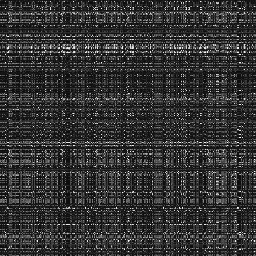
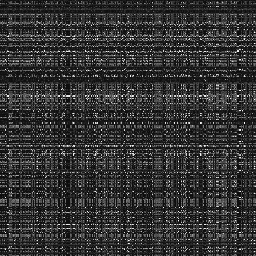
problem in col

Changed region(s): [[0.0, 0.0, 1.0, 0.9688]]

diff --git a/opencv.cpp b/opencv.cpp
@@ -71,13 +71,13 @@ void checkbox_binary_row(long long *csvMat,int boxSize,int box_col,int *binary,l
 	for(int x=0;x<box_col;x++){	
 		for(int i=0;i<box_col;i=i+1){
 			decimal_to_binary(csvMat[i*2+1+x*box_col*2],bits_size,binary);
-			int result=0;
 			for(int k=0;k<boxSize;k++){
+				int result=0;
 				for(int z=0;z<8;z++){//change the binary to the decimal to XOR
    					result=result+binary[z+k*8]*pow(2,7-z);
    				}
-   				result_matrix[k*box_col+i+4*x*box_col]=result;
-   				//printf("checkbox row result%d: %d\n",x*256+8*i+k,result);
+   				result_matrix[k*box_col+i+boxSize*x*box_col]=result;
+   				//printf("checkbox row result%d: %lld\n",x*256+8*i+k,result_matrix[k*box_col+i+4*x*box_col]);
    			}
 		}
 	}	
@@ -87,13 +87,13 @@ void checkbox_binary_column(long long *csvMat,int boxSize,int box_col,int *binar
 	for(int x=0;x<box_col;x++){	
 		for(int i=0;i<box_col;i=i+1){
 			decimal_to_binary(csvMat[x*2+i*box_col*2],bits_size,binary);
-			int result=0;
 			for(int k=0;k<boxSize;k++){
+				int result=0;
 				for(int z=0;z<8;z++){//change the binary to the decimal to XOR
    					result=result+binary[z+k*8]*pow(2,7-z);
    				}
-   				result_matrix[k*box_col+i+4*x*box_col]=result;
-   				//printf("checkbox column result %d: %d\n",x*256+8*i+k,result);
+   				result_matrix[k*box_col+i+boxSize*x*box_col]=result;
+   				//printf("checkbox column result %d: %lld\n",x*256+8*i+k,result_matrix[k*box_col+i+4*x*box_col]);
    			}
 		}
 	}	
@@ -103,10 +103,10 @@ void get_xor(long long *result_xor,long long *result_matrix,int box_col, int M){
 	for(int j=0;j<M;j++){
    		for(int i=0+j*box_col;i<box_col-1+j*box_col;i++){
    	   		result_matrix[i+1]=result_matrix[i]^result_matrix[i+1];//XOR every decial of the row or column
-   	   		printf("result_matrix %d is %lld\n",i,result_matrix[i+1]);
+   	   		//printf("result_matrix %d is %lld\n",i,result_matrix[i+1]);
    		}
    		result_xor[j] = result_matrix[box_col-1+j*box_col];//get the last one, which is the final result of the XOR
-   		printf("xor of the row or column %d is %lld\n",j,result_xor[j]);	
+   		//printf("xor of the row or column %d is %lld\n",j,result_xor[j]);	
    	}	
 }
 
@@ -187,7 +187,7 @@ int main(int argc, char *argv[]){
 	uchar *p = image.data;
 	row_xor = rowXOR(p, M);
 	col_xor = colXOR(p, M);
-	//for(i=0; i< M; i++) printf("row_xor[%d] = %d\n", i, row_xor[i]);
+	for(i=0; i< M; i++) printf("row_xor[%d] = %d\n", i, row_xor[i]);
 	//for(i=0; i< M; i++) printf("col_xor[%d] = %d\n", i, col_xor[i]);
 
     char buffer[1024] ;
@@ -250,10 +250,10 @@ int main(int argc, char *argv[]){
    checkbox_binary_row(csvMat,boxSize,box_col,binary,result_matrix,bits_size);
    get_xor(result_xor,result_matrix,box_col,M);
    	for(int j=0;j<N;j++){
-   		for(int i=0;i<M;i++){//swap from this line
+   		for(int i=j;i<M;i++){//swap from this line
    			if(result_xor[j]==row_xor[i]){// if find the targets, then swap
    				swap_row(j,i, p, M);
-   				printf("has swaped column %d and %d and the result_xor is %lld the row_xor is %d\n",j,i,result_xor[j],row_xor[i]);
+   				//printf("has swaped column %d and %d and the result_xor is %lld the row_xor is %d\n",j,i,result_xor[j],row_xor[i]);
    				break;
    			}
    		}
@@ -263,10 +263,10 @@ int main(int argc, char *argv[]){
    checkbox_binary_column(csvMat,boxSize,box_col,binary,result_matrix,bits_size);
    get_xor(result_xor,result_matrix,box_col,M);
    	for(int j=0;j<N;j++){
-   		for(int i=0;i<M;i++){//swap from this line
+   		for(int i=j;i<M;i++){//swap from this line
    			if(result_xor[j]==col_xor[i]){// if find the targets, then swap
    				swap_column(j,i, p, M);
-   				printf("has swaped row %d and %dand the result_xor is %lld the row_xor is %d\n",j,i,result_xor[j],col_xor[i]);
+   				//printf("has swaped row %d and %dand the result_xor is %lld the row_xor is %d\n",j,i,result_xor[j],col_xor[i]);
    				break;
    			}
    		}
@@ -274,7 +274,10 @@ int main(int argc, char *argv[]){
 	
 
 ////////////////////////////
-
+   	row_xor = rowXOR(p, M);
+	col_xor = colXOR(p, M);
+	for(i=0; i< M; i++) printf("row_xor[%d] = %d\n", i, row_xor[i]);
+	//for(i=0; i< M; i++) printf("col_xor[%d] = %d\n", i, col_xor[i]);
    	image.data=p; // output the new image data
 	// Display the output image:
 	Mat result = Mat(M, N, CV_8UC1, p);
